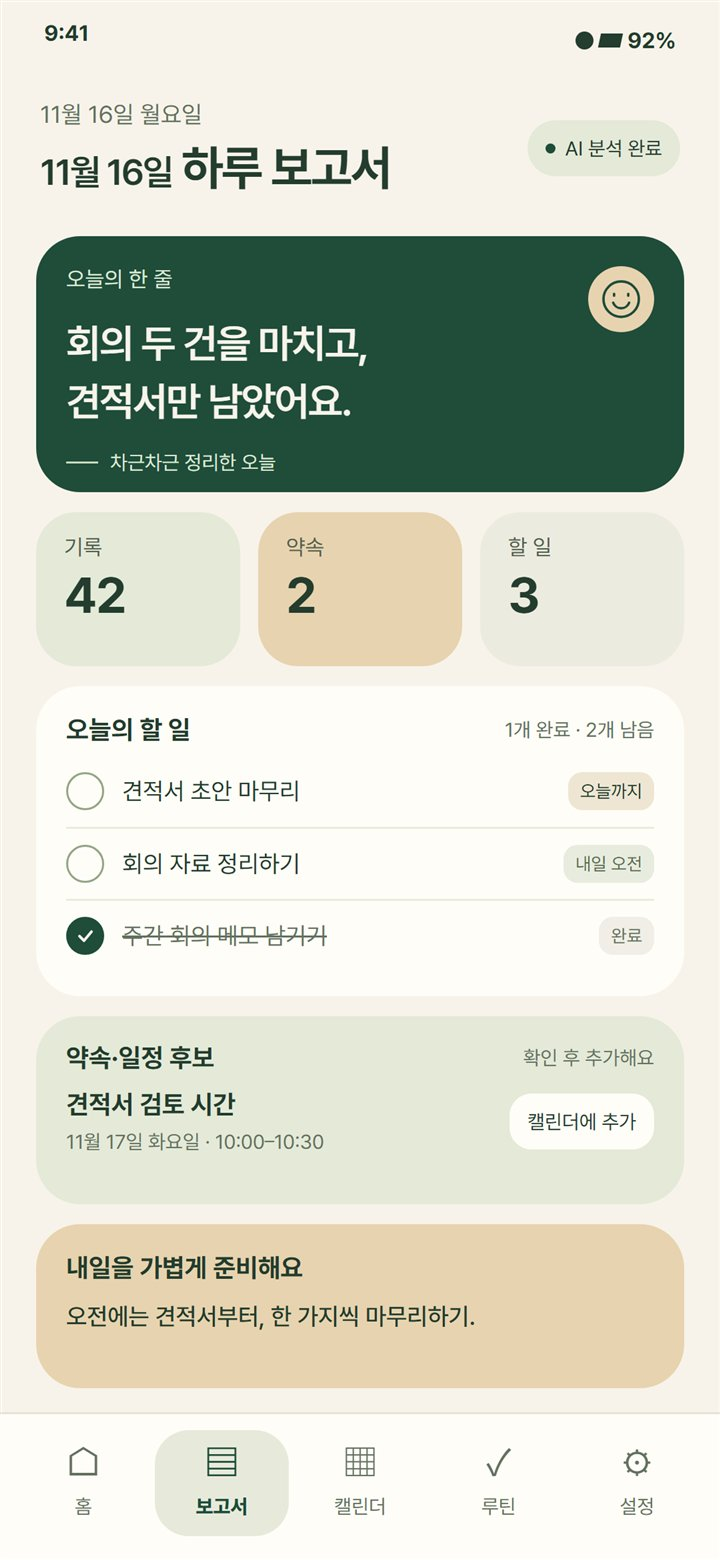
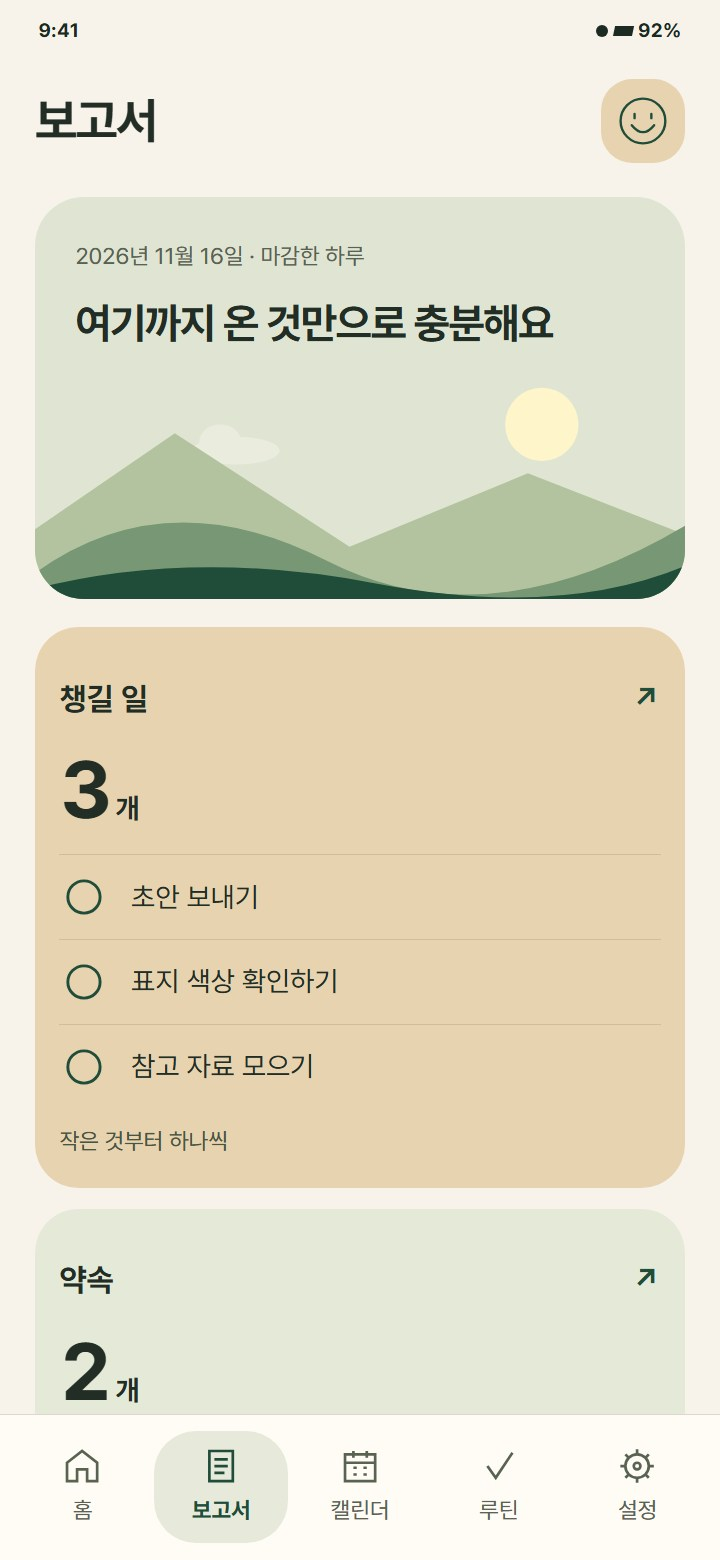
하루마감 보고서 예시 화면을 앱 현재 디자인(보고서 4.1차)으로 교체(미배포)
옛 보고서 화면(오늘의 한 줄·기록/약속/할 일 숫자) -> 앱 0.24.0부터 쓰는 보고서 탭(풍경 카드·챙길 일·약속).
release/design/report-ui-v4/report-home.html#normal,light 를 Pretendard로 720x1560 렌더, 대체 글 수정.

Claude-Session: https://claude.ai/code/session_01Tv5GauKBDLfKQdiR2HznPd

diff --git a/index.html b/index.html
@@ -197,7 +197,7 @@
               <div class="haru-screen" id="haru-screen-report">
                 <div class="haru-screen-float">
                   <div class="haru-device">
-                    <img src="assets/haru-report.jpg" width="720" height="1560" alt="하루마감 보고서 디자인. 오늘의 한 줄, 기록 42개, 약속 2개, 할 일 3개, 일정 후보와 내일의 한 줄 목표가 있는 예시 화면." loading="lazy" decoding="async">
+                    <img src="assets/haru-report.jpg" width="720" height="1560" alt="하루마감 보고서 디자인. 마감한 하루의 풍경 카드와 한 줄 요약, 챙길 일 3개, 약속 2개가 있는 예시 화면." loading="lazy" decoding="async">
                     <span class="haru-screen-reflection" aria-hidden="true"></span>
                     <span class="haru-screen-scan" aria-hidden="true"></span>
                   </div>
